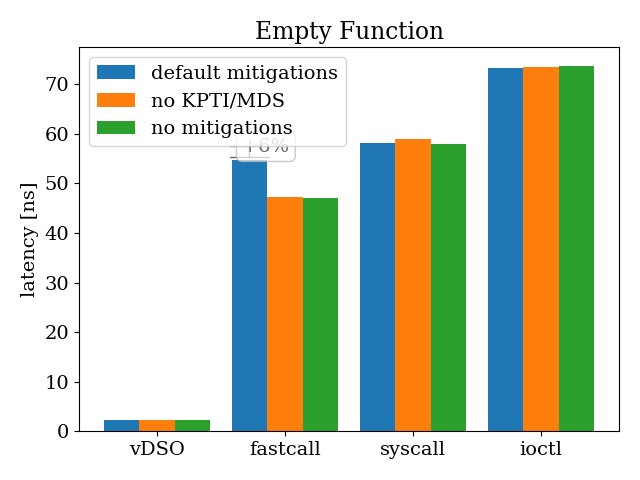
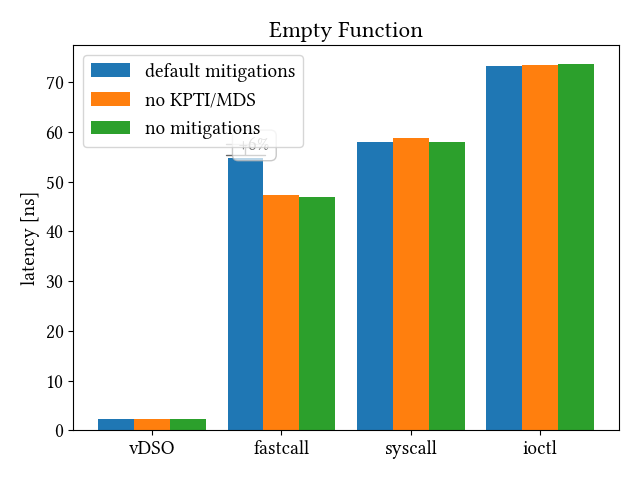
Recreate plots with correct font

diff --git a/plots.py b/plots.py
@@ -62,7 +62,7 @@ Y_LABEL_THROUGHPUT_BYTES = "bytes per second"
 LATENCY_TO_SECONDS = 1e-9
 """Factor for converting from given latency to latency in seconds."""
 
-FONT = {"family": "Linux Libertine, LibertinusSerif, serif",
+FONT = {"family": ["Linux Libertine", "Libertinus Serif", "serif"],
         "size": 14}
 """This mimics the font used in the paper."""
 
